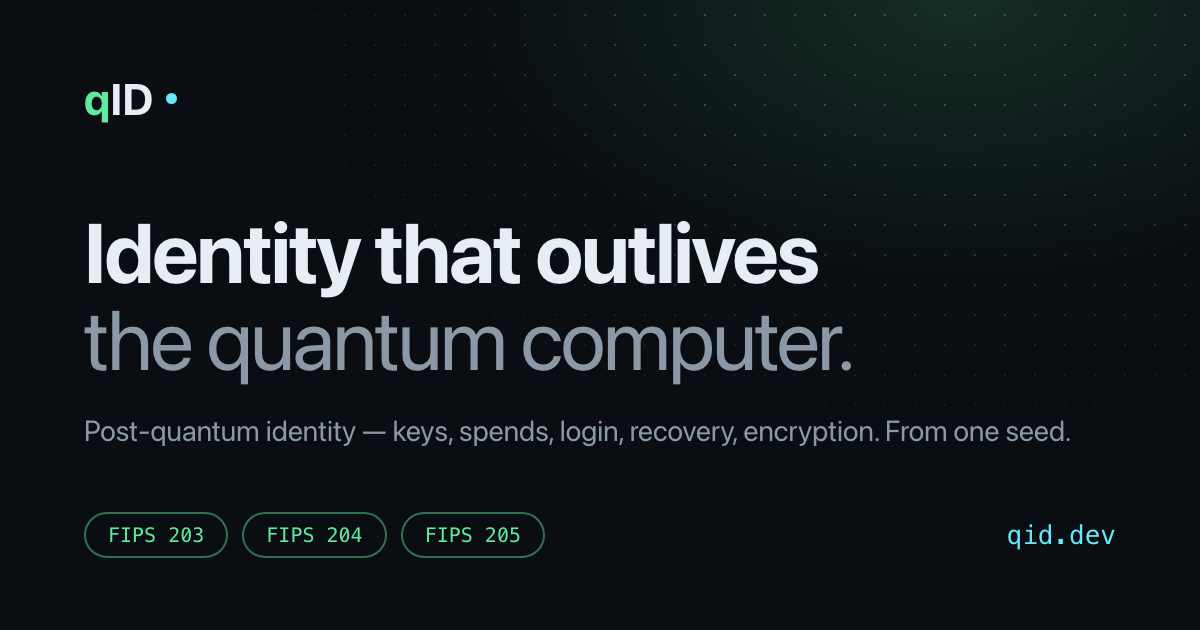
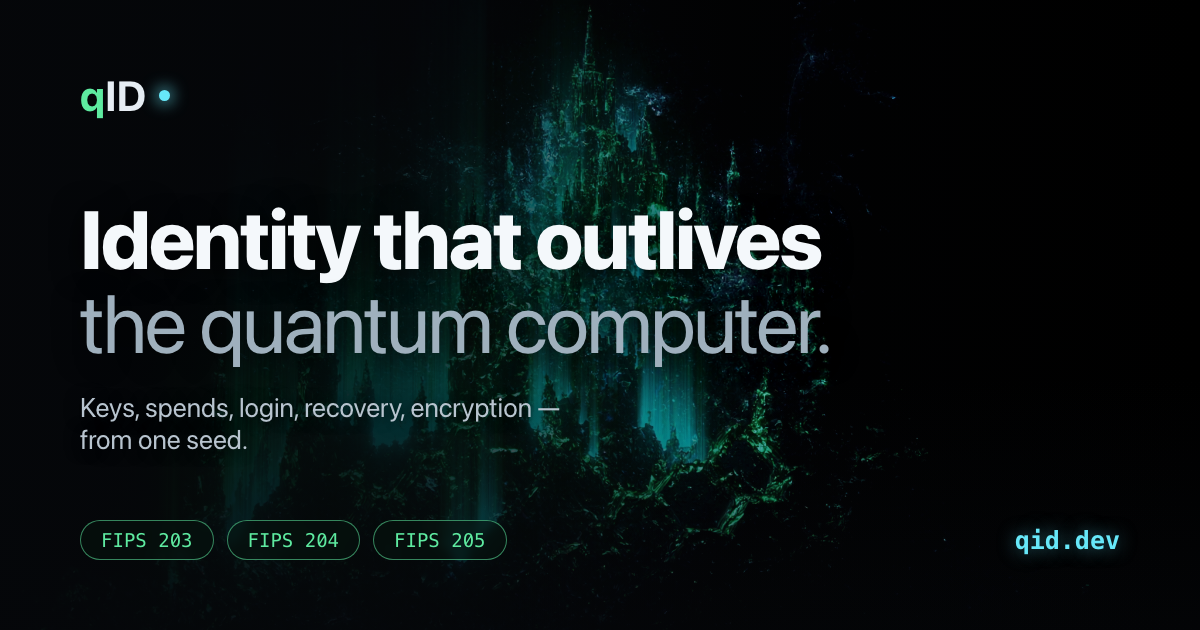
mirror: epic Higgsfield og:image (Quantum Spire) + branded overlay

diff --git a/og-card.html b/og-card.html
@@ -1,48 +1,48 @@
 <!doctype html>
-<!-- Source for the og:image. Regenerate: browse goto file://…/og-card.html && browse viewport 1200x630 && browse screenshot - -viewport site/og.png -->
+<!-- Source for the og:image. Epic Higgsfield background (og-bg.png) + crisp branded overlay.
+     Regenerate: browse goto file://…/og-card.html && browse viewport 1200x630 && browse screenshot --viewport site/og.png -->
 <html lang="en">
 <head>
 <meta charset="utf-8" />
 <style>
   * { margin: 0; box-sizing: border-box; }
   html, body { width: 1200px; height: 630px; overflow: hidden; }
-  body {
-    background: #0a0e12; color: #e6edf3; position: relative;
-    font-family: system-ui, -apple-system, "Segoe UI", Roboto, sans-serif;
-    -webkit-font-smoothing: antialiased;
-  }
-  .dots { position: absolute; inset: 0;
-    background-image: radial-gradient(rgba(139,153,166,.33) 1.5px, transparent 1.5px);
-    background-size: 30px 30px;
-    -webkit-mask-image: radial-gradient(ellipse 85% 95% at 78% 8%, #000 25%, transparent 72%);
-  }
-  .glow { position: absolute; inset: 0;
-    background: radial-gradient(ellipse 60% 65% at 80% 0%, rgba(94,234,160,.14), transparent 70%); }
-  .inner { position: relative; height: 100%; padding: 72px 84px; display: flex; flex-direction: column; }
-  .logo { display: flex; align-items: baseline; gap: 12px; font-size: 44px; font-weight: 700; }
+  body { background: #05070a; position: relative;
+    font-family: system-ui, -apple-system, "Segoe UI", Roboto, sans-serif; -webkit-font-smoothing: antialiased; }
+  .bg { position: absolute; inset: 0; width: 1200px; height: 630px; object-fit: cover; }
+  /* legibility scrim: heavy on the left where the text lives, fading right to reveal the art */
+  .scrim { position: absolute; inset: 0;
+    background:
+      linear-gradient(90deg, rgba(5,7,10,.92) 0%, rgba(5,7,10,.82) 34%, rgba(5,7,10,.28) 62%, rgba(5,7,10,0) 100%),
+      linear-gradient(0deg, rgba(5,7,10,.6) 0%, rgba(5,7,10,0) 40%); }
+  .inner { position: relative; height: 100%; padding: 70px 80px; display: flex; flex-direction: column; }
+  .logo { display: flex; align-items: baseline; gap: 12px; font-size: 42px; font-weight: 700; color: #e6edf3; }
   .logo .q { color: #5eeaa0; }
-  .logo .dot { width: 11px; height: 11px; border-radius: 50%; background: #67e8f9; align-self: center; }
-  h1 { margin-top: 84px; font-size: 84px; line-height: 1.04; letter-spacing: -0.025em; font-weight: 700; }
-  h1 .thin { color: #8b99a6; font-weight: 400; }
-  .sub { margin-top: 30px; font-size: 29px; color: #8b99a6; letter-spacing: -0.01em; }
+  .logo .dot { width: 11px; height: 11px; border-radius: 50%; background: #67e8f9; align-self: center;
+    box-shadow: 0 0 16px 2px rgba(103,232,249,.8); }
+  h1 { margin-top: 76px; font-size: 82px; line-height: 1.03; letter-spacing: -0.025em; font-weight: 800; color: #f4f8fb;
+    text-shadow: 0 2px 30px rgba(0,0,0,.7); max-width: 15ch; }
+  h1 .thin { color: #9fb0bd; font-weight: 400; }
+  .sub { margin-top: 26px; font-size: 27px; color: #b8c4cf; letter-spacing: -0.01em; max-width: 30ch;
+    text-shadow: 0 1px 16px rgba(0,0,0,.8); }
   .foot { margin-top: auto; display: flex; align-items: center; justify-content: space-between; }
-  .badges { display: flex; gap: 14px; }
-  .badge { font-family: ui-monospace, SFMono-Regular, Menlo, monospace; font-size: 20px; color: #5eeaa0;
-    border: 2px solid rgba(94,234,160,.45); border-radius: 999px; padding: 9px 22px; }
-  .url { font-family: ui-monospace, SFMono-Regular, Menlo, monospace; font-size: 26px; color: #67e8f9; }
+  .badges { display: flex; gap: 13px; }
+  .badge { font-family: ui-monospace, SFMono-Regular, Menlo, monospace; font-size: 19px; color: #5eeaa0;
+    border: 1.5px solid rgba(94,234,160,.55); border-radius: 999px; padding: 8px 20px;
+    background: rgba(5,20,14,.5); backdrop-filter: blur(4px); }
+  .url { font-family: ui-monospace, SFMono-Regular, Menlo, monospace; font-size: 25px; color: #67e8f9; font-weight: 600;
+    text-shadow: 0 0 18px rgba(103,232,249,.5); }
 </style>
 </head>
 <body>
-  <div class="dots"></div>
-  <div class="glow"></div>
+  <img class="bg" src="og-bg.png" alt="" />
+  <div class="scrim"></div>
   <div class="inner">
     <div class="logo"><span><span class="q">q</span>ID</span><span class="dot"></span></div>
     <h1>Identity that outlives<br /><span class="thin">the quantum computer.</span></h1>
-    <div class="sub">Post-quantum identity — keys, spends, login, recovery, encryption. From one seed.</div>
+    <div class="sub">Keys, spends, login, recovery, encryption &mdash; from one seed.</div>
     <div class="foot">
-      <div class="badges">
-        <span class="badge">FIPS 203</span><span class="badge">FIPS 204</span><span class="badge">FIPS 205</span>
-      </div>
+      <div class="badges"><span class="badge">FIPS 203</span><span class="badge">FIPS 204</span><span class="badge">FIPS 205</span></div>
       <div class="url">qid.dev</div>
     </div>
   </div>

diff --git a/index.html b/index.html
@@ -10,14 +10,14 @@
 <meta property="og:type" content="website" />
 <meta property="og:url" content="https://qid.dev/" />
 <meta property="og:site_name" content="qID" />
-<meta property="og:image" content="https://qid.dev/og.png" />
+<meta property="og:image" content="https://qid.dev/og.png?v=2" />
 <meta property="og:image:width" content="1200" />
 <meta property="og:image:height" content="630" />
 <meta property="og:image:alt" content="qID — Identity that outlives the quantum computer. FIPS 203/204/205." />
 <meta name="twitter:card" content="summary_large_image" />
 <meta name="twitter:title" content="qID — post-quantum identity" />
 <meta name="twitter:description" content="Keys, addresses, spends, login, recovery, encryption — from one seed. NIST FIPS 203/204/205." />
-<meta name="twitter:image" content="https://qid.dev/og.png" />
+<meta name="twitter:image" content="https://qid.dev/og.png?v=2" />
 <meta name="theme-color" media="(prefers-color-scheme: dark)" content="#0a0e12" />
 <meta name="theme-color" media="(prefers-color-scheme: light)" content="#fafcfd" />
 <link rel="canonical" href="https://qid.dev/" />
